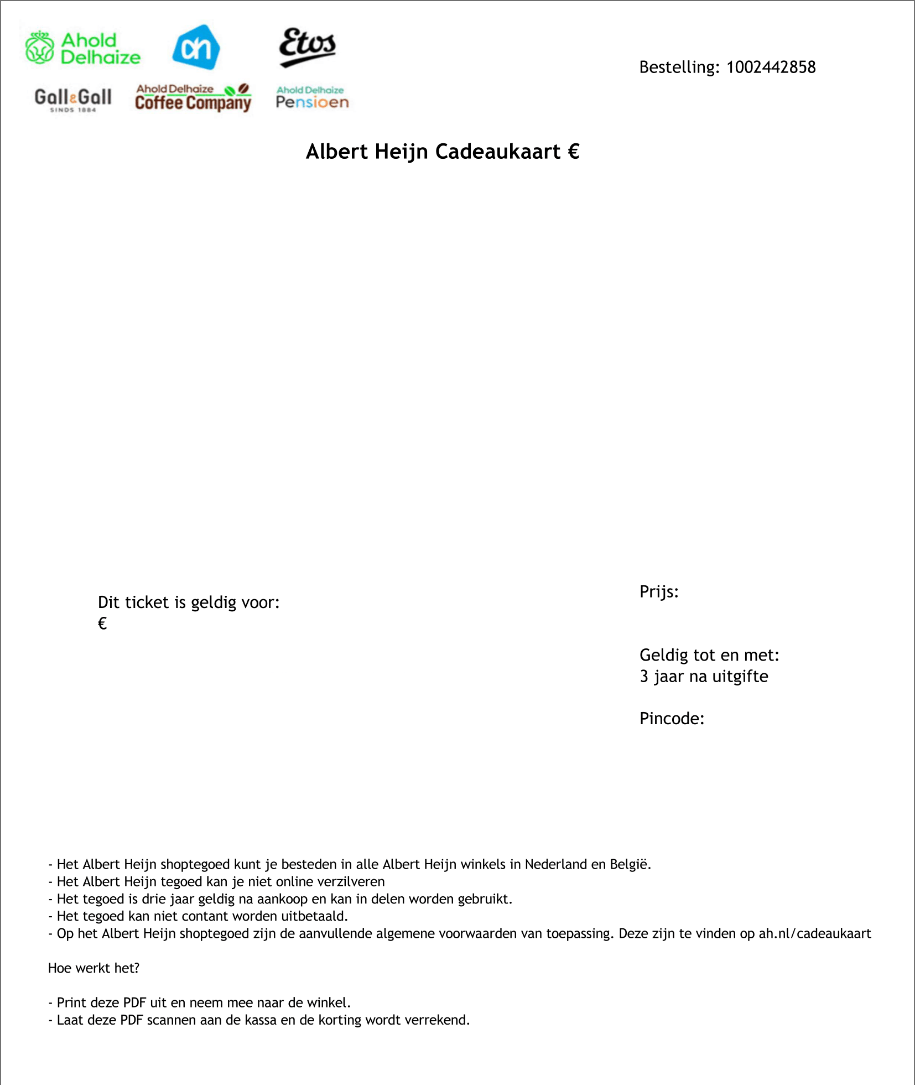
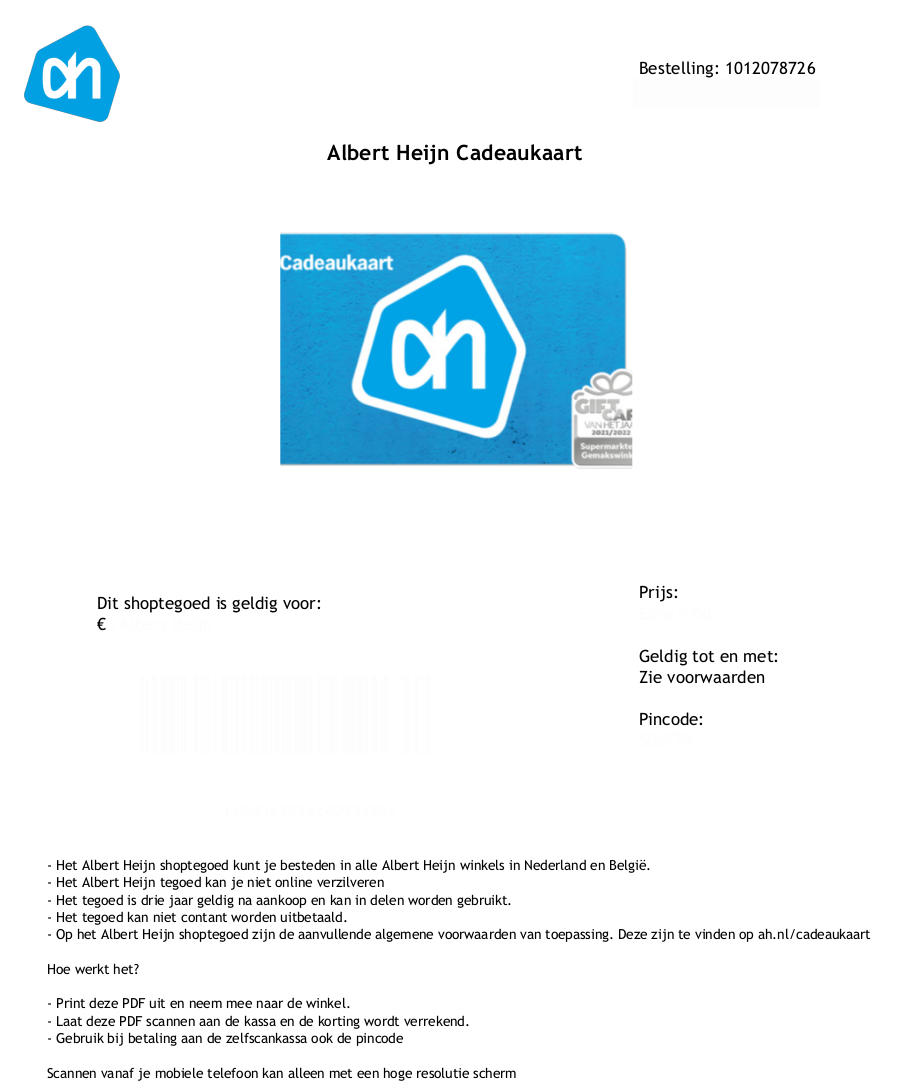
feat: Update Intersolve-voucher base-image AB#18677

diff --git a/services/121-service/src/payments/imagecode/image-code.service.ts b/services/121-service/src/payments/imagecode/image-code.service.ts
@@ -154,19 +154,6 @@ export class ImageCodeService {
         image.print(font, 225, 800, voucherData.code); // Barcode numbers
       });
 
-      // Add a 'scaled' amount to the title of the voucher
-      const titleAmount = new Jimp(100, 50);
-      await Jimp.loadFont(Jimp.FONT_SANS_32_BLACK).then((font) => {
-        titleAmount.print(
-          font,
-          0,
-          0,
-          this.formatDecimals(String(voucherData.amount), false),
-        );
-      });
-      titleAmount.scale(0.7);
-      image.composite(titleAmount, 583, 138);
-
       return image;
     });
 
